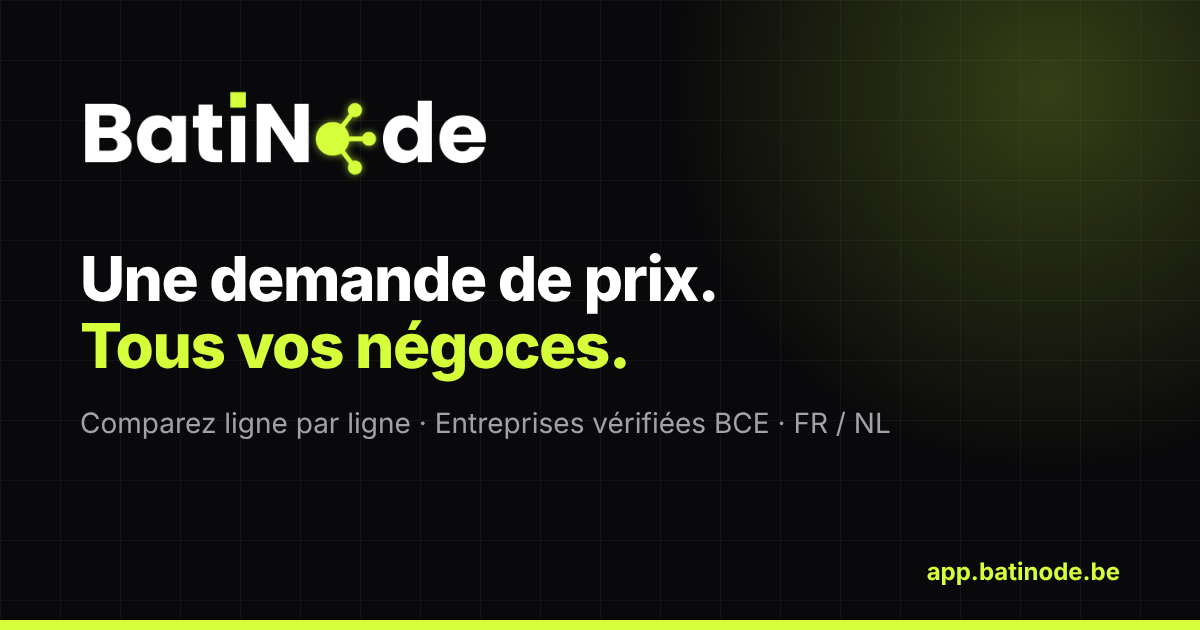
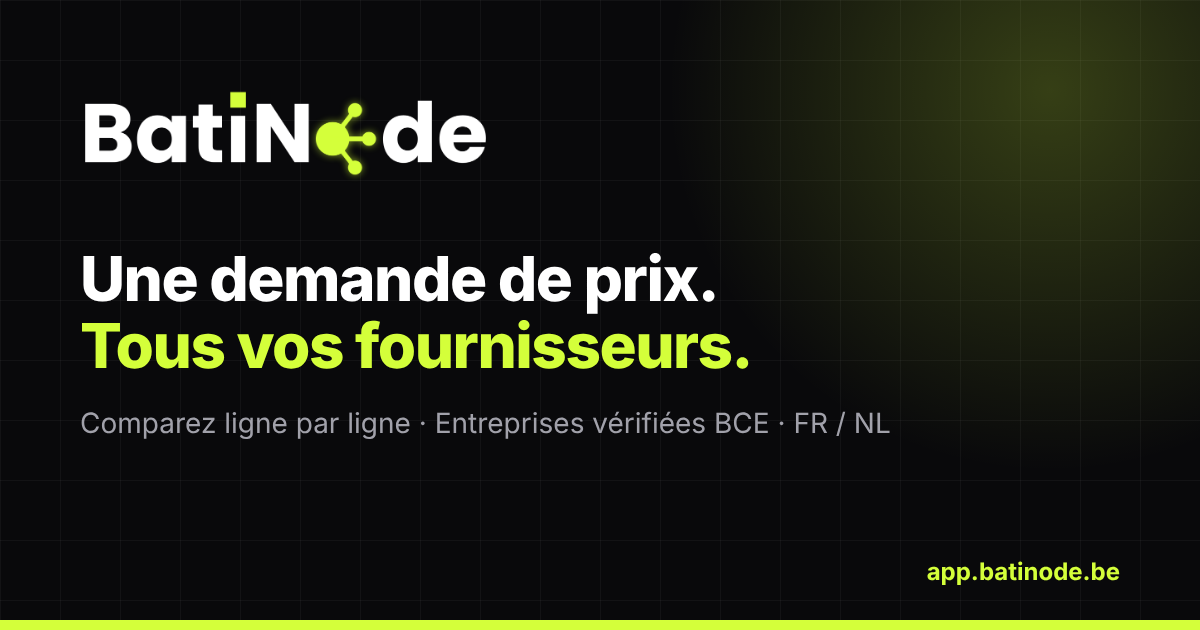
Say « fournisseurs » instead of « négoces » everywhere in French
App texts, e-mails, link preview, web manifest and the assistant's
instructions (Henrique's wording).

Claude-Session: https://claude.ai/code/session_015gfCoJqQwFb6iFh7u5fQqj

Changed region(s): [[0.2775, 0.5127, 0.6167, 0.6032]]

diff --git a/src/i18n/growth.fr.ts b/src/i18n/growth.fr.ts
@@ -156,7 +156,7 @@ export const growthFr = {
     page: {
       heroTitle: "Votre devis part avant celui des autres.",
       heroLead:
-        "Une demande de prix, tous vos négoces, comparés ligne par ligne. Votre négoce habituel peut répondre aussi : vous vérifiez enfin que son prix est le bon.",
+        "Une demande de prix, tous vos fournisseurs, comparés ligne par ligne. Votre fournisseur habituel peut répondre aussi : vous vérifiez enfin que son prix est le bon.",
       heroCta: "Essayer Premium 7 jours, sans carte",
       problemTitle:
         "Les prix bougent chaque mois. Votre devis, lui, est signé.",
@@ -179,14 +179,14 @@ export const growthFr = {
       ],
       howTitle: "Trois étapes, sans un coup de fil",
       radius:
-        "Seuls les négoces situés dans un rayon d’environ 50 km autour de votre chantier sont sollicités, du plus proche au plus loin.",
+        "Seuls les fournisseurs situés dans un rayon d’environ 50 km autour de votre chantier sont sollicités, du plus proche au plus loin.",
       how: [
         {
           title: "Décrivez vos matériaux",
-          text: "Produits, quantités et code postal du chantier. Ajoutez vos négoces habituels.",
+          text: "Produits, quantités et code postal du chantier. Ajoutez vos fournisseurs habituels.",
         },
         {
-          title: "Les négoces répondent",
+          title: "Les fournisseurs répondent",
           text: "Ils reçoivent la demande dans leur langue et répondent par un simple lien, sans compte, ou envoient leur offre en PDF.",
         },
         {
@@ -209,7 +209,7 @@ export const growthFr = {
         "BatiNode ne vérifie pas les dettes ONSS ou fiscales. Pour l’obligation de retenue (30bis), consultez l’application officielle 30bis sur socialsecurity.be.",
       reachTitle: "Combien de fournisseurs près de votre chantier ?",
       reachLead:
-        "Fournisseurs recensés à partir de leurs sites officiels. Vous pouvez aussi ajouter vos négoces habituels.",
+        "Fournisseurs recensés à partir de leurs sites officiels. Vous pouvez aussi ajouter vos fournisseurs habituels.",
       reachPlaceholder: "Code postal, ex. 1600",
       reachResult: (n: number, postal: string) =>
         n === 1
@@ -235,7 +235,7 @@ export const growthFr = {
       faqTitle: "Vos questions, nos réponses franches",
       faq: [
         {
-          q: "Mon négoce me fait déjà un bon prix.",
+          q: "Mon fournisseur me fait déjà un bon prix.",
           a: "Gardez-le. Envoyez-lui la demande via BatiNode avec deux ou trois autres : vous saurez, ligne par ligne, si c’est vrai.",
         },
         {
@@ -278,7 +278,7 @@ export const growthFr = {
     eyebrow: "Pour les PME de la construction en Belgique",
     title:
       "Achetez vos matériaux au meilleur prix. Travaillez avec des partenaires en règle.",
-    lead: `${APP_NAME} envoie vos demandes de prix aux négoces de votre zone, compare les offres ligne par ligne et garde la preuve de chaque commande. En français et en néerlandais.`,
+    lead: `${APP_NAME} envoie vos demandes de prix aux fournisseurs de votre zone, compare les offres ligne par ligne et garde la preuve de chaque commande. En français et en néerlandais.`,
     proof: [
       "Vérification TVA et BCE",
       "Factures Peppol contrôlées",
@@ -297,7 +297,7 @@ export const growthFr = {
         cta: "Je suis entrepreneur",
       },
       supplier: {
-        title: "Fournisseurs et négoces",
+        title: "Fournisseurs",
         points: [
           "Des demandes qualifiées de votre zone",
           "Réponse en un clic",
@@ -324,7 +324,7 @@ export const growthFr = {
         text: "Produits, quantités, code postal du chantier. Trois minutes.",
       },
       {
-        title: "Les négoces répondent",
+        title: "Les fournisseurs répondent",
         text: "Ils reçoivent un e-mail dans leur langue et envoient leur prix.",
       },
       {

diff --git a/supabase/functions/_shared/growth-mail.ts b/supabase/functions/_shared/growth-mail.ts
@@ -9,7 +9,7 @@ export function welcomeMail(lang: Lang, to: string, kind: Kind, url: string, tri
   const fr: Record<Kind, string[]> = {
     contractor: [
       `Bienvenue sur ${APP_NAME}. Vous avez ${trialDays} jours de plan Premium offerts, sans carte bancaire.`,
-      'Le plus rapide pour voir la différence : envoyez votre prochaine demande de matériaux à plusieurs négoces de votre zone. Ils répondent par e-mail, vous comparez les offres ligne par ligne.',
+      'Le plus rapide pour voir la différence : envoyez votre prochaine demande de matériaux à plusieurs fournisseurs de votre zone. Ils répondent par e-mail, vous comparez les offres ligne par ligne.',
       'Astuce : ajoutez vos fournisseurs habituels. Ils recevront vos demandes même s’ils ne sont pas encore inscrits.',
     ],
     supplier: [
@@ -56,7 +56,7 @@ export function activationMail(lang: Lang, to: string, kind: Kind, url: string):
       fr: {
         subject: 'Votre première demande de prix en 3 minutes',
         paragraphs: [
-          'Vous n’avez pas encore envoyé de demande de prix. Prenez la liste de votre prochain chantier : titre, quelques lignes de produits, le code postal. Nous l’envoyons aux négoces de votre zone.',
+          'Vous n’avez pas encore envoyé de demande de prix. Prenez la liste de votre prochain chantier : titre, quelques lignes de produits, le code postal. Nous l’envoyons aux fournisseurs de votre zone.',
           'Comparer au moins trois offres est le moyen le plus simple de payer le juste prix.',
         ],
         cta: { label: 'Créer ma demande', url },
@@ -176,7 +176,7 @@ export function winbackMail(lang: Lang, to: string, url: string): Mail {
   return notice(lang, to, {
     fr: {
       subject: 'Un chantier qui démarre ? Comparez vos prix en 3 minutes',
-      paragraphs: ['Vous n’avez pas envoyé de demande de prix depuis un mois. Pour votre prochain chantier, envoyez la liste aux négoces de votre zone et comparez les offres ligne par ligne.'],
+      paragraphs: ['Vous n’avez pas envoyé de demande de prix depuis un mois. Pour votre prochain chantier, envoyez la liste aux fournisseurs de votre zone et comparez les offres ligne par ligne.'],
       cta: { label: 'Nouvelle demande', url },
     },
     nl: {

diff --git a/src/i18n/signup.fr.ts b/src/i18n/signup.fr.ts
@@ -10,10 +10,10 @@ export const signupFr = {
   profiles: {
     contractor: {
       title: 'Entrepreneur',
-      lead: 'Comparez les prix des négoces, trouvez des sous-traitants vérifiés et gardez la preuve de vos achats.',
+      lead: 'Comparez les prix des fournisseurs, trouvez des sous-traitants vérifiés et gardez la preuve de vos achats.',
     },
     supplier: {
-      title: 'Fournisseur ou négoce',
+      title: 'Fournisseur',
       lead: 'Recevez des demandes de prix d’entrepreneurs de votre zone. Inscription et réponses gratuites.',
     },
     architect: {
@@ -67,7 +67,7 @@ export const signupFr = {
     OVL: 'Flandre orientale',
   },
   supplierType: 'Vous êtes',
-  supplierTypeLabels: { merchant: 'Négoce de matériaux', manufacturer: 'Fabricant', wholesaler: 'Grossiste', rental: 'Location de matériel' },
+  supplierTypeLabels: { merchant: 'Fournisseur de matériaux', manufacturer: 'Fabricant', wholesaler: 'Grossiste', rental: 'Location de matériel' },
   categories: 'Ce que vous vendez',
   service: 'Service',
   delivers: 'Livraison sur chantier',

diff --git a/supabase/functions/_shared/assistant-prompt.ts b/supabase/functions/_shared/assistant-prompt.ts
@@ -15,7 +15,7 @@ export function assistantSystemPrompt(): string {
 # Who uses ${APP_NAME}
 - Contractors (entrepreneurs / aannemers): send price requests to material suppliers, compare offers, and use the network to subcontract work or answer posts.
 - Architects: publish their projects and find verified contractors. Free for architects.
-- Suppliers (négoces / handelaars): receive price requests by e-mail and answer through a personal link.
+- Suppliers (always called « fournisseurs » in French, never « négoces »; « leveranciers » in Dutch): receive price requests by e-mail and answer through a personal link.
 
 # Screens (contractors and architects)
 - Accueil / Start: the contractor's price requests and their status.
